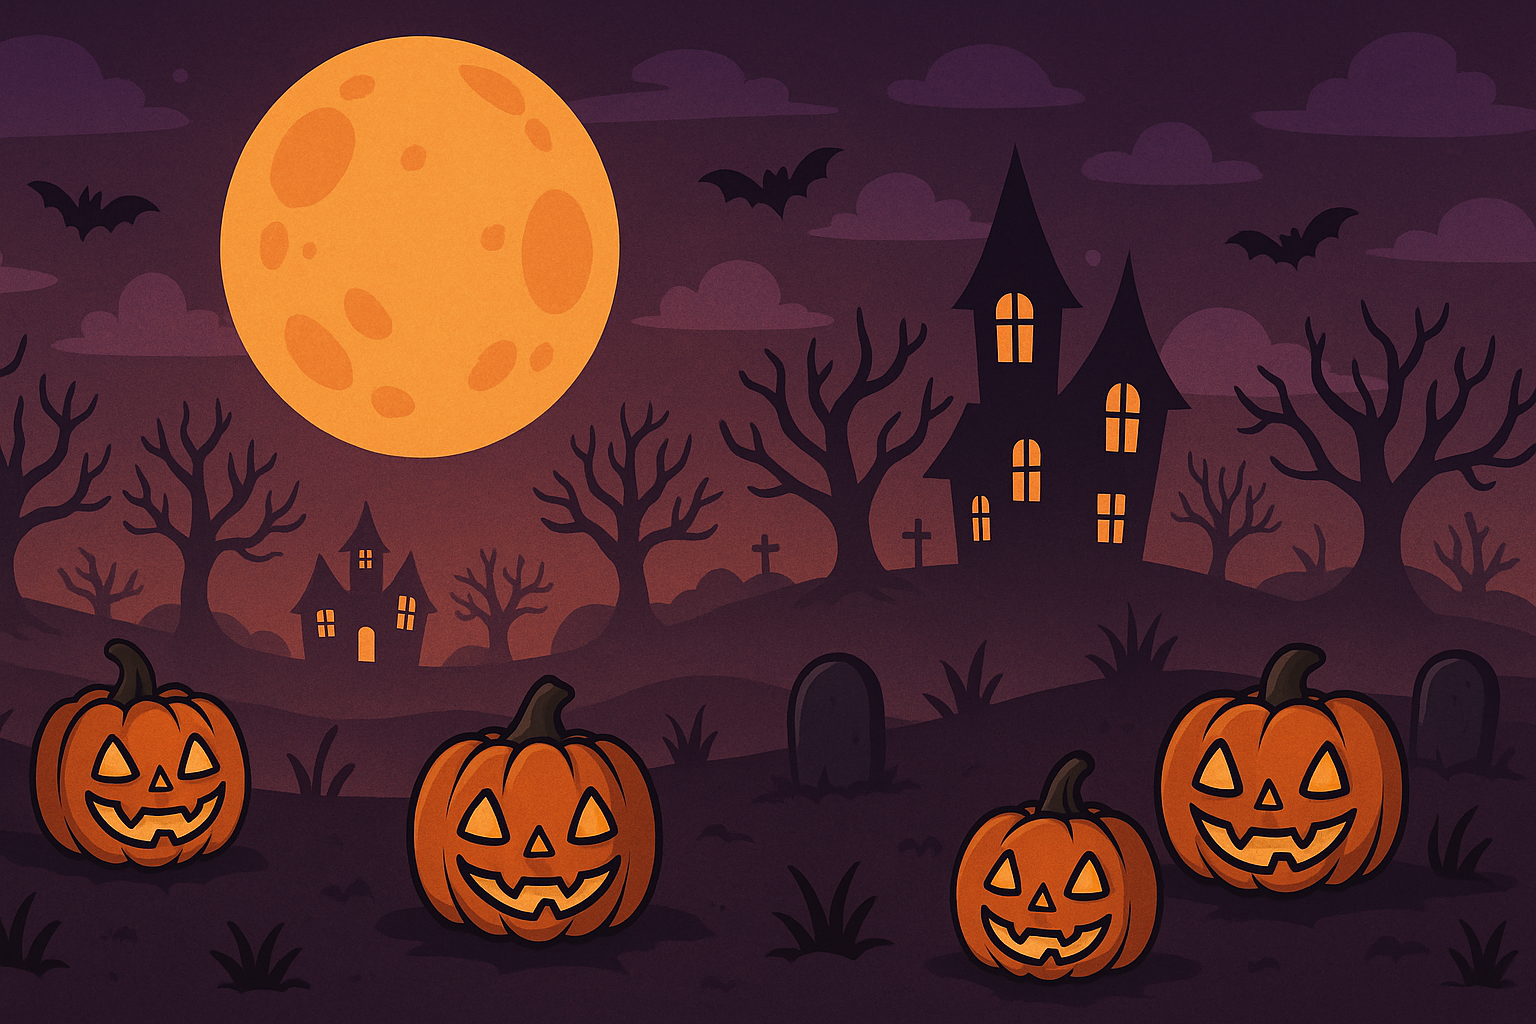
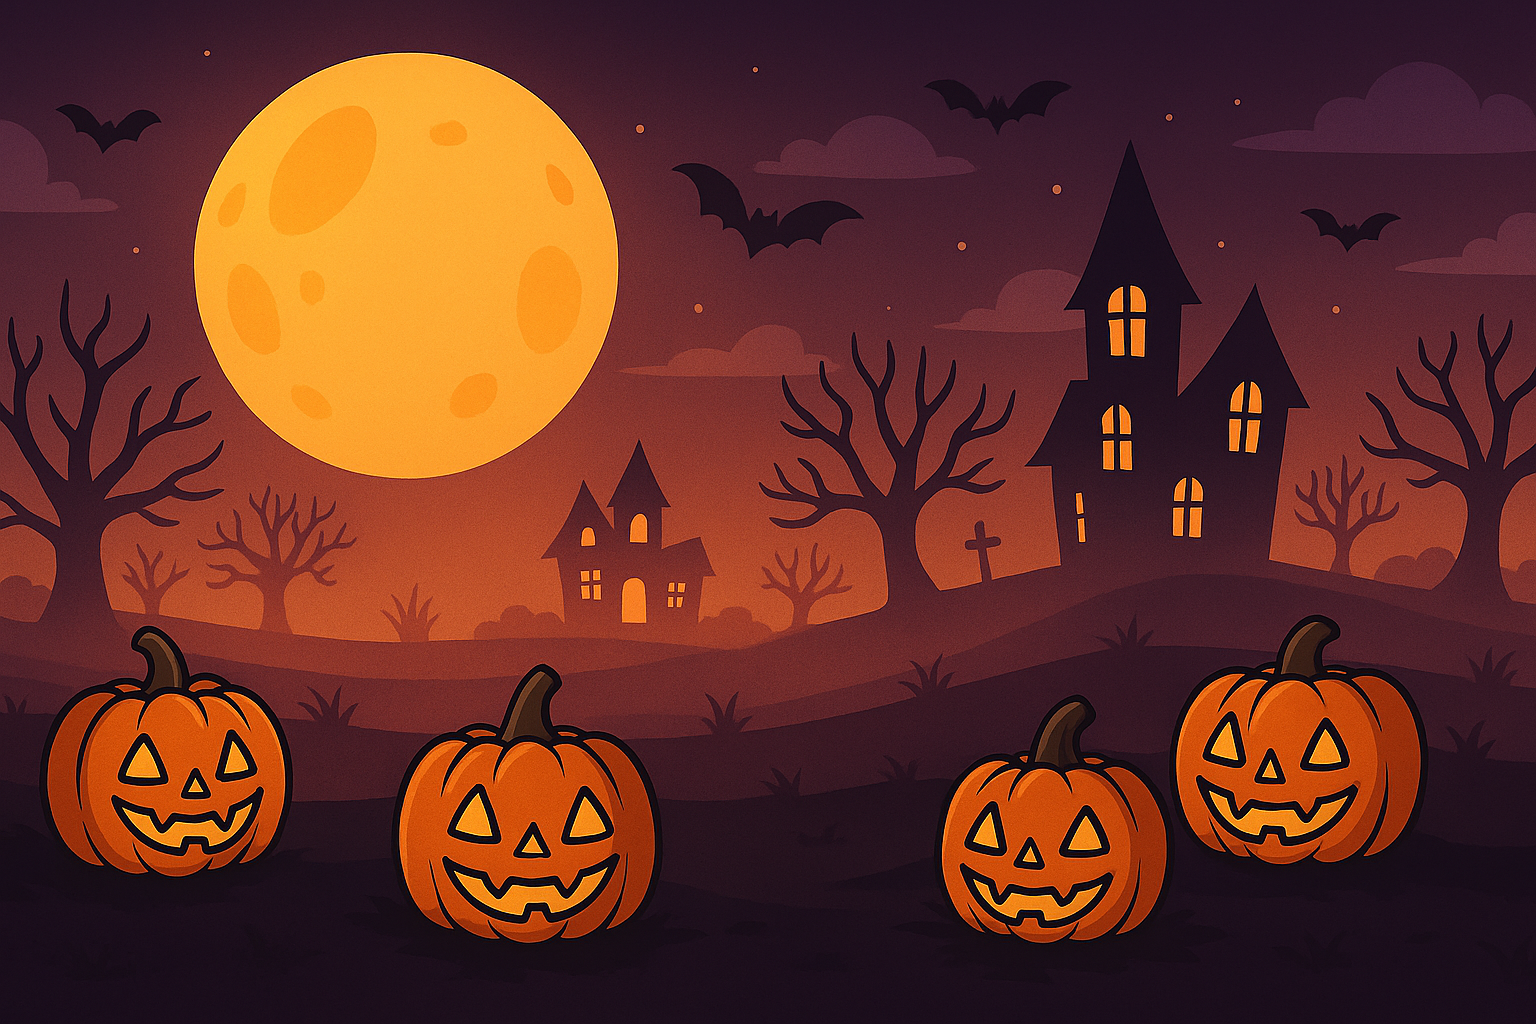
Refactor GameScene to implement a scrolling background and adjust player mechanics. Changed background to a tileSprite

diff --git a/src/scenes/GameScene.js b/src/scenes/GameScene.js
@@ -7,14 +7,17 @@ class GameScene extends Phaser.Scene {
   }
 
   create() {
+    this.gameSpeed = 2;
     console.log('GameScene create() started');
     const { height, width } = this.game.config;
     console.log('Game dimensions:', width, height);
     
-    // --- Add the background ---
-    const bg = this.add.image(width / 2, height / 2, "gameBackground");
-    bg.setOrigin(0.5);
-    bg.setDisplaySize(width, height); // Makes it fill the whole screen
+    // --- Add the scrolling background ---
+    this.gameBackground = this.add.tileSprite(width / 2, height / 2, width * 1.5, height * 1.5, "gameBackground");
+    this.gameBackground.setOrigin(0.5, 0.5);
+    this.gameBackground.setScale(0.75); // Zoom out to see more of the background
+    this.gameBackground.tilePositionY = 55; // Shift the texture up to show different part of image
+    
 
 
     // Create the player sprite
@@ -27,15 +30,15 @@ class GameScene extends Phaser.Scene {
     this.anims.create({
       key: 'run',
       frames: this.anims.generateFrameNumbers('player', { start: 0, end: 11 }),
-      frameRate: 24,
+      frameRate: 12,
       repeat: -1
     });
     
     // Play the running animation
     this.player.play('run');
     
-    // Set horizontal velocity to make it run
-    this.player.setVelocityX(200);
+    // Player stays in place - background moves instead
+    this.player.setVelocityX(0);
     
     // Debug: log player position and visibility
     console.log('Player created at:', this.player.x, this.player.y);
@@ -44,10 +47,8 @@ class GameScene extends Phaser.Scene {
   }
 
   update(){
-    // Wrap around screen when player goes off the right edge
-    if (this.player.x > this.game.config.width) {
-      this.player.x = -this.player.width;
-    }
+    // Scroll the background to create running effect
+    this.gameBackground.tilePositionX += this.gameSpeed;
   }
 }
 
